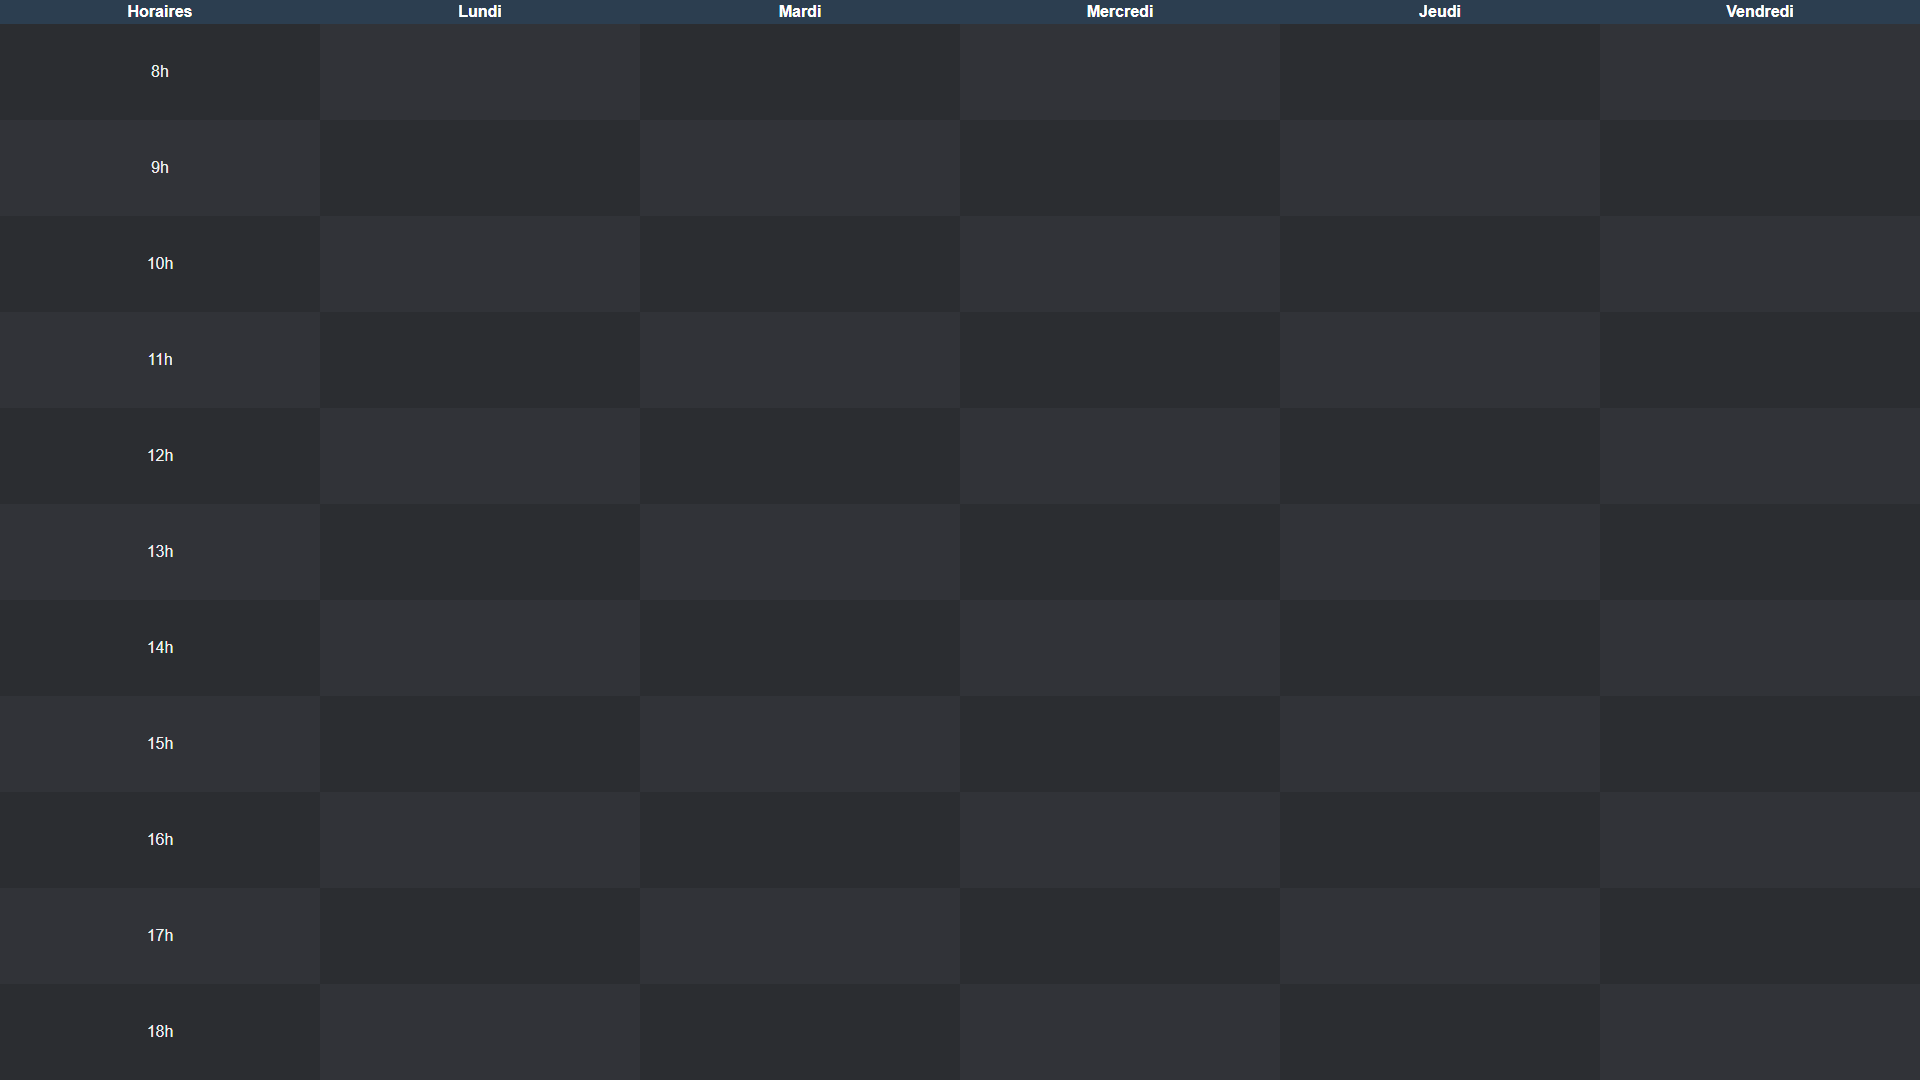
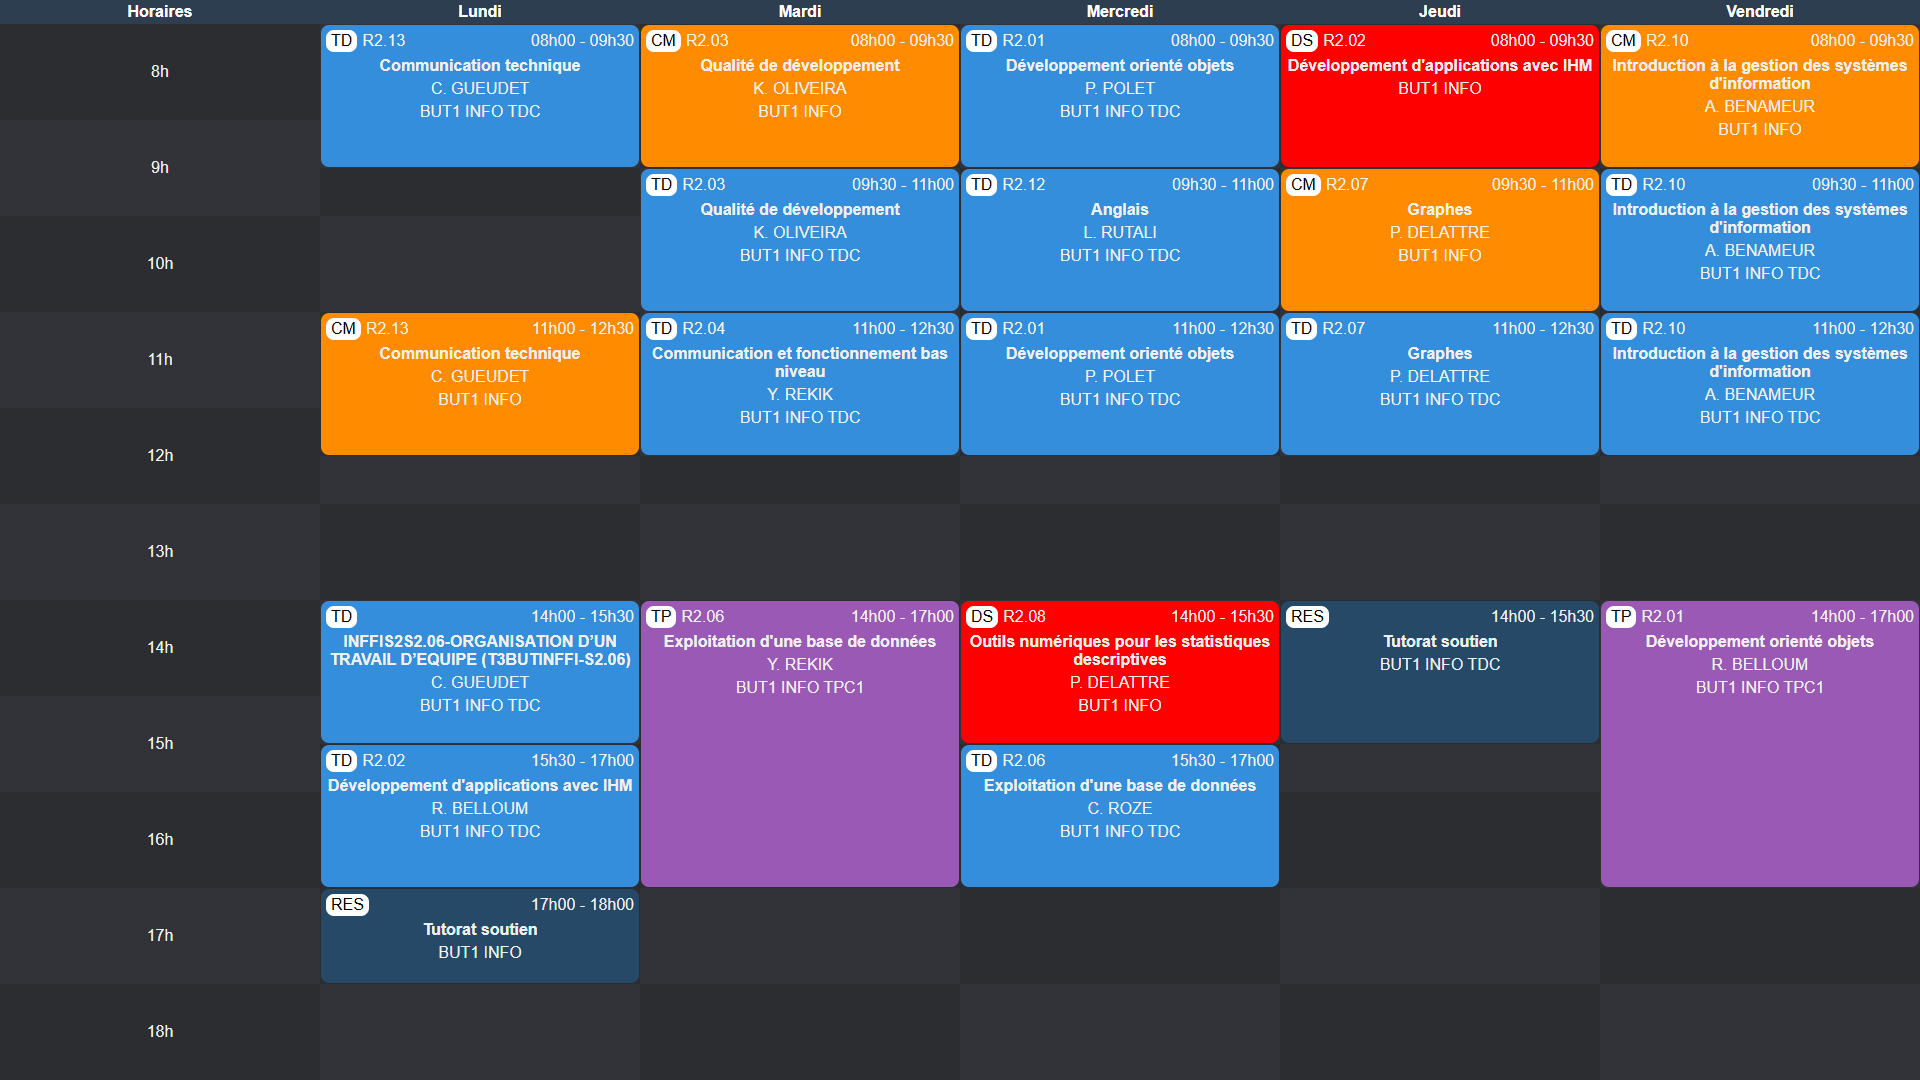
Embed test

diff --git a/edt_temp.html b/edt_temp.html
@@ -107,8 +107,8 @@
     </div>
   </body>
   <script>
-    const data = JSON.parse('{"messages":[{"level":"","text":""}],"plannings":[{"id":"22400227","label":"EDT étudiant","type":"STUDENT","messages":[{"level":"","text":""}],"events":[],"default":true}]}');
-    let date = new Date(2025, 1, 17, 8);
+    const data = JSON.parse('{"messages":[{"level":"","text":""}],"plannings":[{"id":"22400227","label":"EDT étudiant","type":"STUDENT","messages":[{"level":"","text":""}],"events":[{"id":"802661","startDateTime":"2025-03-03T08:00","endDateTime":"2025-03-03T09:30","course":{"id":"27900862","label":"INFFIS2R2.13-COMMUNICATION TECHNIQUE (T3BUTINFFI-R2.13)","color":"#3498db","type":"TD","online":false,"url":null},"rooms":[{"id":"24349690","label":"PUM 111","type":null}],"teachers":[{"id":"24712392","displayname":"C. GUEUDET","email":"Carole.Hannothiaux@uphf.fr"}],"groups":[{"id":"28001085","label":"BUT1 INFO TDC"}]},{"id":"799095","startDateTime":"2025-03-03T11:00","endDateTime":"2025-03-03T12:30","course":{"id":"27900862","label":"INFFIS2R2.13-COMMUNICATION TECHNIQUE (T3BUTINFFI-R2.13)","color":"#2ecc71","type":"CM","online":false,"url":null},"rooms":[{"id":"24349698","label":"PUM AMPHI","type":null}],"teachers":[{"id":"24712392","displayname":"C. GUEUDET","email":"Carole.Hannothiaux@uphf.fr"}],"groups":[{"id":"28001080","label":"BUT1 INFO"}]},{"id":"802734","startDateTime":"2025-03-03T14:00","endDateTime":"2025-03-03T15:30","course":{"id":"27900849","label":"INFFIS2S2.06-ORGANISATION D’UN TRAVAIL D’EQUIPE (T3BUTINFFI-S2.06)","color":"#3498db","type":"TD","online":false,"url":null},"rooms":[{"id":"24349690","label":"PUM 111","type":null}],"teachers":[{"id":"24712392","displayname":"C. GUEUDET","email":"Carole.Hannothiaux@uphf.fr"}],"groups":[{"id":"28001085","label":"BUT1 INFO TDC"}]},{"id":"799126","startDateTime":"2025-03-03T15:30","endDateTime":"2025-03-03T17:00","course":{"id":"27900851","label":"INFFIS2R2.02-DEVELOPPEMENT D’APPLICATIONS AVEC IHM (T3BUTINFFI-R2.02)","color":"#3498db","type":"TD","online":false,"url":null},"rooms":[{"id":"24349690","label":"PUM 111","type":null}],"teachers":[{"id":"24720812","displayname":"R. BELLOUM","email":"RAFIK.BELLOUM@uphf.fr"}],"groups":[{"id":"28001085","label":"BUT1 INFO TDC"}]},{"id":"168717","startDateTime":"2025-03-03T17:00","endDateTime":"2025-03-03T18:00","course":{"id":"169717","label":"Tutorat soutien","color":"#274968","type":"RES","online":false,"url":null},"rooms":[{"id":"24349694","label":"PUM 115","type":null}],"teachers":[],"groups":[{"id":"28001080","label":"BUT1 INFO"}]},{"id":"799135","startDateTime":"2025-03-04T08:00","endDateTime":"2025-03-04T09:30","course":{"id":"27900852","label":"INFFIS2R2.03-QUALITE DE DEVELOPPEMENT (T3BUTINFFI-R2.03)","color":"#2ecc71","type":"CM","online":false,"url":null},"rooms":[{"id":"24349698","label":"PUM AMPHI","type":null}],"teachers":[{"id":"24707978","displayname":"K. OLIVEIRA","email":""}],"groups":[{"id":"28001080","label":"BUT1 INFO"}]},{"id":"802785","startDateTime":"2025-03-04T09:30","endDateTime":"2025-03-04T11:00","course":{"id":"27900852","label":"INFFIS2R2.03-QUALITE DE DEVELOPPEMENT (T3BUTINFFI-R2.03)","color":"#3498db","type":"TD","online":false,"url":null},"rooms":[{"id":"24349690","label":"PUM 111","type":null}],"teachers":[{"id":"24707978","displayname":"K. OLIVEIRA","email":""}],"groups":[{"id":"28001085","label":"BUT1 INFO TDC"}]},{"id":"797837","startDateTime":"2025-03-04T11:00","endDateTime":"2025-03-04T12:30","course":{"id":"27900853","label":"INFFIS2R2.04-COMMUNICATION ET FONCTIONNEMENT BAS NIVEAU (T3BUTINFFI-R2.04)","color":"#3498db","type":"TD","online":false,"url":null},"rooms":[{"id":"24349690","label":"PUM 111","type":null}],"teachers":[{"id":"24719197","displayname":"Y. REKIK","email":"yosra.rekik@uphf.fr"}],"groups":[{"id":"28001085","label":"BUT1 INFO TDC"}]},{"id":"799142","startDateTime":"2025-03-04T14:00","endDateTime":"2025-03-04T17:00","course":{"id":"27900855","label":"INFFIS2R2.06-EXPLOITATION D’UNE BASE DE DONNEES (T3BUTINFFI-R2.06)","color":"#9b59b6","type":"TP","online":false,"url":null},"rooms":[{"id":"24349685","label":"PUM 106","type":null}],"teachers":[{"id":"24719197","displayname":"Y. REKIK","email":"yosra.rekik@uphf.fr"}],"groups":[{"id":"28001090","label":"BUT1 INFO TPC1"}]},{"id":"797884","startDateTime":"2025-03-05T08:00","endDateTime":"2025-03-05T09:30","course":{"id":"27900850","label":"INFFIS2R2.01-DEVELOPPEMENT ORIENTE OBJETS (T3BUTINFFI-R2.01)","color":"#3498db","type":"TD","online":false,"url":null},"rooms":[{"id":"24349690","label":"PUM 111","type":null}],"teachers":[{"id":"24707673","displayname":"P. POLET","email":"Philippe.Polet@uphf.fr"}],"groups":[{"id":"28001085","label":"BUT1 INFO TDC"}]},{"id":"800797","startDateTime":"2025-03-05T09:30","endDateTime":"2025-03-05T11:00","course":{"id":"27900861","label":"INFFIS2R2.12-ANGLAIS (T3BUTINFFI-R2.12)","color":"#3498db","type":"TD","online":false,"url":null},"rooms":[{"id":"24349690","label":"PUM 111","type":null}],"teachers":[{"id":"24720448","displayname":"L. RUTALI","email":"CHRISTELLE.ROZE@LAPOSTE.NET"}],"groups":[{"id":"28001085","label":"BUT1 INFO TDC"}]},{"id":"801638","startDateTime":"2025-03-05T11:00","endDateTime":"2025-03-05T12:30","course":{"id":"27900850","label":"INFFIS2R2.01-DEVELOPPEMENT ORIENTE OBJETS (T3BUTINFFI-R2.01)","color":"#3498db","type":"TD","online":false,"url":null},"rooms":[{"id":"24349690","label":"PUM 111","type":null}],"teachers":[{"id":"24707673","displayname":"P. POLET","email":"Philippe.Polet@uphf.fr"}],"groups":[{"id":"28001085","label":"BUT1 INFO TDC"}]},{"id":"799131","startDateTime":"2025-03-05T14:00","endDateTime":"2025-03-05T15:30","course":{"id":"27900857","label":"INFFIS2R2.08-OUTILS NUMERIQUES POUR LES STATISTIQUES DESCRIPTIVES (T3BUTINFFI-R2.08)","color":"#f39c12","type":"DS","online":false,"url":null},"rooms":[{"id":"24349689","label":"PUM 110","type":null},{"id":"24349698","label":"PUM AMPHI","type":null}],"teachers":[{"id":"24709787","displayname":"P. DELATTRE","email":"PHILIPPE.DELATTRE@uphf.fr"}],"groups":[{"id":"28001080","label":"BUT1 INFO"}]},{"id":"799153","startDateTime":"2025-03-05T15:30","endDateTime":"2025-03-05T17:00","course":{"id":"27900855","label":"INFFIS2R2.06-EXPLOITATION D’UNE BASE DE DONNEES (T3BUTINFFI-R2.06)","color":"#3498db","type":"TD","online":false,"url":null},"rooms":[{"id":"24349690","label":"PUM 111","type":null}],"teachers":[{"id":"24720977","displayname":"C. ROZE","email":"christelle.roze@laposte.net"}],"groups":[{"id":"28001085","label":"BUT1 INFO TDC"}]},{"id":"802788","startDateTime":"2025-03-06T08:00","endDateTime":"2025-03-06T09:30","course":{"id":"27900851","label":"INFFIS2R2.02-DEVELOPPEMENT D’APPLICATIONS AVEC IHM (T3BUTINFFI-R2.02)","color":"#f39c12","type":"DS","online":false,"url":null},"rooms":[{"id":"24349689","label":"PUM 110","type":null},{"id":"24349698","label":"PUM AMPHI","type":null}],"teachers":[],"groups":[{"id":"28001080","label":"BUT1 INFO"}]},{"id":"802675","startDateTime":"2025-03-06T09:30","endDateTime":"2025-03-06T11:00","course":{"id":"27900856","label":"INFFIS2R2.07-GRAPHES (T3BUTINFFI-R2.07)","color":"#2ecc71","type":"CM","online":false,"url":null},"rooms":[{"id":"24349698","label":"PUM AMPHI","type":null}],"teachers":[{"id":"24709787","displayname":"P. DELATTRE","email":"PHILIPPE.DELATTRE@uphf.fr"}],"groups":[{"id":"28001080","label":"BUT1 INFO"}]},{"id":"802682","startDateTime":"2025-03-06T11:00","endDateTime":"2025-03-06T12:30","course":{"id":"27900856","label":"INFFIS2R2.07-GRAPHES (T3BUTINFFI-R2.07)","color":"#3498db","type":"TD","online":false,"url":null},"rooms":[{"id":"24349690","label":"PUM 111","type":null}],"teachers":[{"id":"24709787","displayname":"P. DELATTRE","email":"PHILIPPE.DELATTRE@uphf.fr"}],"groups":[{"id":"28001085","label":"BUT1 INFO TDC"}]},{"id":"168731","startDateTime":"2025-03-06T14:00","endDateTime":"2025-03-06T15:30","course":{"id":"169731","label":"Tutorat soutien","color":"#274968","type":"RES","online":false,"url":null},"rooms":[],"teachers":[],"groups":[{"id":"28001085","label":"BUT1 INFO TDC"}]},{"id":"795115","startDateTime":"2025-03-07T08:00","endDateTime":"2025-03-07T09:30","course":{"id":"27900859","label":"INFFIS2R2.10-INTRODUCTION A LA GESTION DES SYSTEMES D’INFORMATION (T3BUTINFFI-R2.10)","color":"#2ecc71","type":"CM","online":false,"url":null},"rooms":[{"id":"24349698","label":"PUM AMPHI","type":null}],"teachers":[{"id":"24720665","displayname":"A. BENAMEUR","email":"abenameur@outlook.fr"}],"groups":[{"id":"28001080","label":"BUT1 INFO"}]},{"id":"795613","startDateTime":"2025-03-07T09:30","endDateTime":"2025-03-07T11:00","course":{"id":"27900859","label":"INFFIS2R2.10-INTRODUCTION A LA GESTION DES SYSTEMES D’INFORMATION (T3BUTINFFI-R2.10)","color":"#3498db","type":"TD","online":false,"url":null},"rooms":[{"id":"24349690","label":"PUM 111","type":null}],"teachers":[{"id":"24720665","displayname":"A. BENAMEUR","email":"abenameur@outlook.fr"}],"groups":[{"id":"28001085","label":"BUT1 INFO TDC"}]},{"id":"795144","startDateTime":"2025-03-07T11:00","endDateTime":"2025-03-07T12:30","course":{"id":"27900859","label":"INFFIS2R2.10-INTRODUCTION A LA GESTION DES SYSTEMES D’INFORMATION (T3BUTINFFI-R2.10)","color":"#3498db","type":"TD","online":false,"url":null},"rooms":[{"id":"24349690","label":"PUM 111","type":null}],"teachers":[{"id":"24720665","displayname":"A. BENAMEUR","email":"abenameur@outlook.fr"}],"groups":[{"id":"28001085","label":"BUT1 INFO TDC"}]},{"id":"799157","startDateTime":"2025-03-07T14:00","endDateTime":"2025-03-07T17:00","course":{"id":"27900850","label":"INFFIS2R2.01-DEVELOPPEMENT ORIENTE OBJETS (T3BUTINFFI-R2.01)","color":"#9b59b6","type":"TP","online":false,"url":null},"rooms":[{"id":"24349685","label":"PUM 106","type":null}],"teachers":[{"id":"24720812","displayname":"R. BELLOUM","email":"RAFIK.BELLOUM@uphf.fr"}],"groups":[{"id":"28001090","label":"BUT1 INFO TPC1"}]}],"default":true}]}');
+    let date = new Date(2025, 2, 3, 8);
 
     const events = data.plannings[0].events;
 

diff --git a/src/botHelper.js b/src/botHelper.js
@@ -1,5 +1,5 @@
 require("dotenv").config();
-const { ChannelType, AttachmentBuilder, PermissionsBitField, PermissionOverwrites } = require("discord.js");
+const { ChannelType, AttachmentBuilder, PermissionsBitField, PermissionOverwrites, EmbedBuilder } = require("discord.js");
 const fs = require("fs");
 
 const request = require("./request");
@@ -48,11 +48,12 @@ async function getChannelID(channelName, client, roleID, logger) {
   return channel.id;
 }
 
-async function sendEDT(client, channelID, message, data, date, logger) {
+async function sendEDT(client, channelID, embed, data, date, logger) {
   if (await edtImage.generateImage(data, tools.getStartOfWeek(date), logger)) {
     const channel = client.channels.cache.get(channelID);
-    const attachment = new AttachmentBuilder("./output.png");
-    await channel.send({ content: message, files: [attachment] });
+    const attachment = new AttachmentBuilder("./output.png").setName("image.png");
+    embed.setImage("attachment://image.png");
+    await channel.send({ embeds: [embed], files: [attachment] });
   }
 }
 
@@ -80,37 +81,39 @@ async function scheduleChanged(client, group, channelID, date, logger) {
   removed.sort(sortByStartTime);
   added.sort(sortByStartTime);
 
-  let message = "";
+  let description = "";
 
   if (removed.length != 0) {
-    message += "Les cours suivant on été supprimé: ";
+    description += "Les cours suivants ont été supprimés :";
 
     for (let i = 0; i < removed.length; i++) {
-      message += `\n - Le ${tools.formatDateHeure(new Date(removed[i].startDateTime))}: ${removed[i].course.label}`;
+      description += `\n - Le ${tools.formatDateHeure(new Date(removed[i].startDateTime))}: ${removed[i].course.label}`;
     }
-    message += "\n\n";
+    description += "\n\n";
   }
   if (added.length != 0) {
-    message += "Les cours suivant on été ajouté: ";
+    description += "Les cours suivants ont été ajoutés:";
 
     for (let i = 0; i < added.length; i++) {
-      message += `\n - Le ${tools.formatDateHeure(new Date(added[i].startDateTime))}: ${added[i].course.label}`;
+      description += `\n - Le ${tools.formatDateHeure(new Date(added[i].startDateTime))}: ${added[i].course.label}`;
     }
-    message += "\n";
+    description += "\n";
   }
 
-  if (message.length != 0) {
-    sendEDT(client, channelID, message, currSchedule, date, logger);
+  if (description.length != 0) {
+    const embed = new EmbedBuilder().setTitle("Changement d'emploi du temps").setDescription(description);
+    sendEDT(client, channelID, embed, currSchedule, date, logger);
     fs.writeFileSync(group == "C1" ? "lastEDTC1.txt" : "lastEDTC2.txt", JSON.stringify(currSchedule), "utf-8");
   }
 }
 
 async function scheduleSaturdayTask(action) {
-  const timeUntilNextSaturday = tools.msUntilNextSaturday();
+  const timeUntilNextSaturday = /*1000;*/ tools.msUntilNextSaturday();
 
   setTimeout(() => {
     action();
     setInterval(action, 7 * 24 * 60 * 60 * 1000);
+    //setInterval(action, 60 * 1000);
   }, timeUntilNextSaturday);
 }
 
@@ -124,7 +127,9 @@ async function newWeekEDT(client, group, channelID, date, logger) {
 
   fs.writeFileSync(group == "C1" ? "lastEDTC1.txt" : "lastEDTC2.txt", JSON.stringify(data), "utf-8");
 
-  sendEDT(client, channelID, "Emploi du temps de la semaine :", data, date, logger);
+  const embed = new EmbedBuilder().setTitle("Emploi du temps de la semaine");
+
+  sendEDT(client, channelID, embed, data, date, logger);
 }
 
 async function notifyDS(client, channelsID, logger) {
@@ -150,7 +155,7 @@ async function notifyDS(client, channelsID, logger) {
   // Notifié les DS qui se trouve dans la liste des cours
   // Si ils n'ont pas déjà été notifié
   for (let i = 0; i < events.length; i++) {
-    if (events[i].course.type == "CM") {
+    if (events[i].course.type == "DS") {
       const strEvent = JSON.stringify(events[i]);
       if (!dsSet.has(strEvent)) {
         const C1 = client.guilds.cache.get(process.env.IDSERVER).roles.cache.get(process.env.ROLE_C1);

diff --git a/src/bot.js b/src/bot.js
@@ -32,6 +32,11 @@ client.once("ready", async () => {
   C1 = await botHelper.getChannelID("edt_c1", client, process.env.ROLE_C1, logger);
   C2 = await botHelper.getChannelID("edt_c2", client, process.env.ROLE_C2, logger);
 
+  //Lancement du bot
+  await botHelper.newWeekEDT(client, "C1", C1, new Date(), logger);
+  await botHelper.newWeekEDT(client, "C2", C2, new Date(), logger);
+  await botHelper.notifyDS(client, [C1, C2], logger);
+
   // Chaque heure, vérifier les changements d'EDT
   setInterval(async () => {
     await botHelper.scheduleChanged(client, "C1", C1, new Date(/*2025, 1, 24*/), logger);
@@ -43,6 +48,7 @@ client.once("ready", async () => {
   botHelper.scheduleSaturdayTask(async () => {
     await botHelper.newWeekEDT(client, "C1", C1, new Date(/*2025, 1, 24*/), logger);
     await botHelper.newWeekEDT(client, "C2", C2, new Date(/*2025, 1, 24*/), logger);
+    await botHelper.notifyDS(client, [C1, C2], logger);
   });
 });
 
